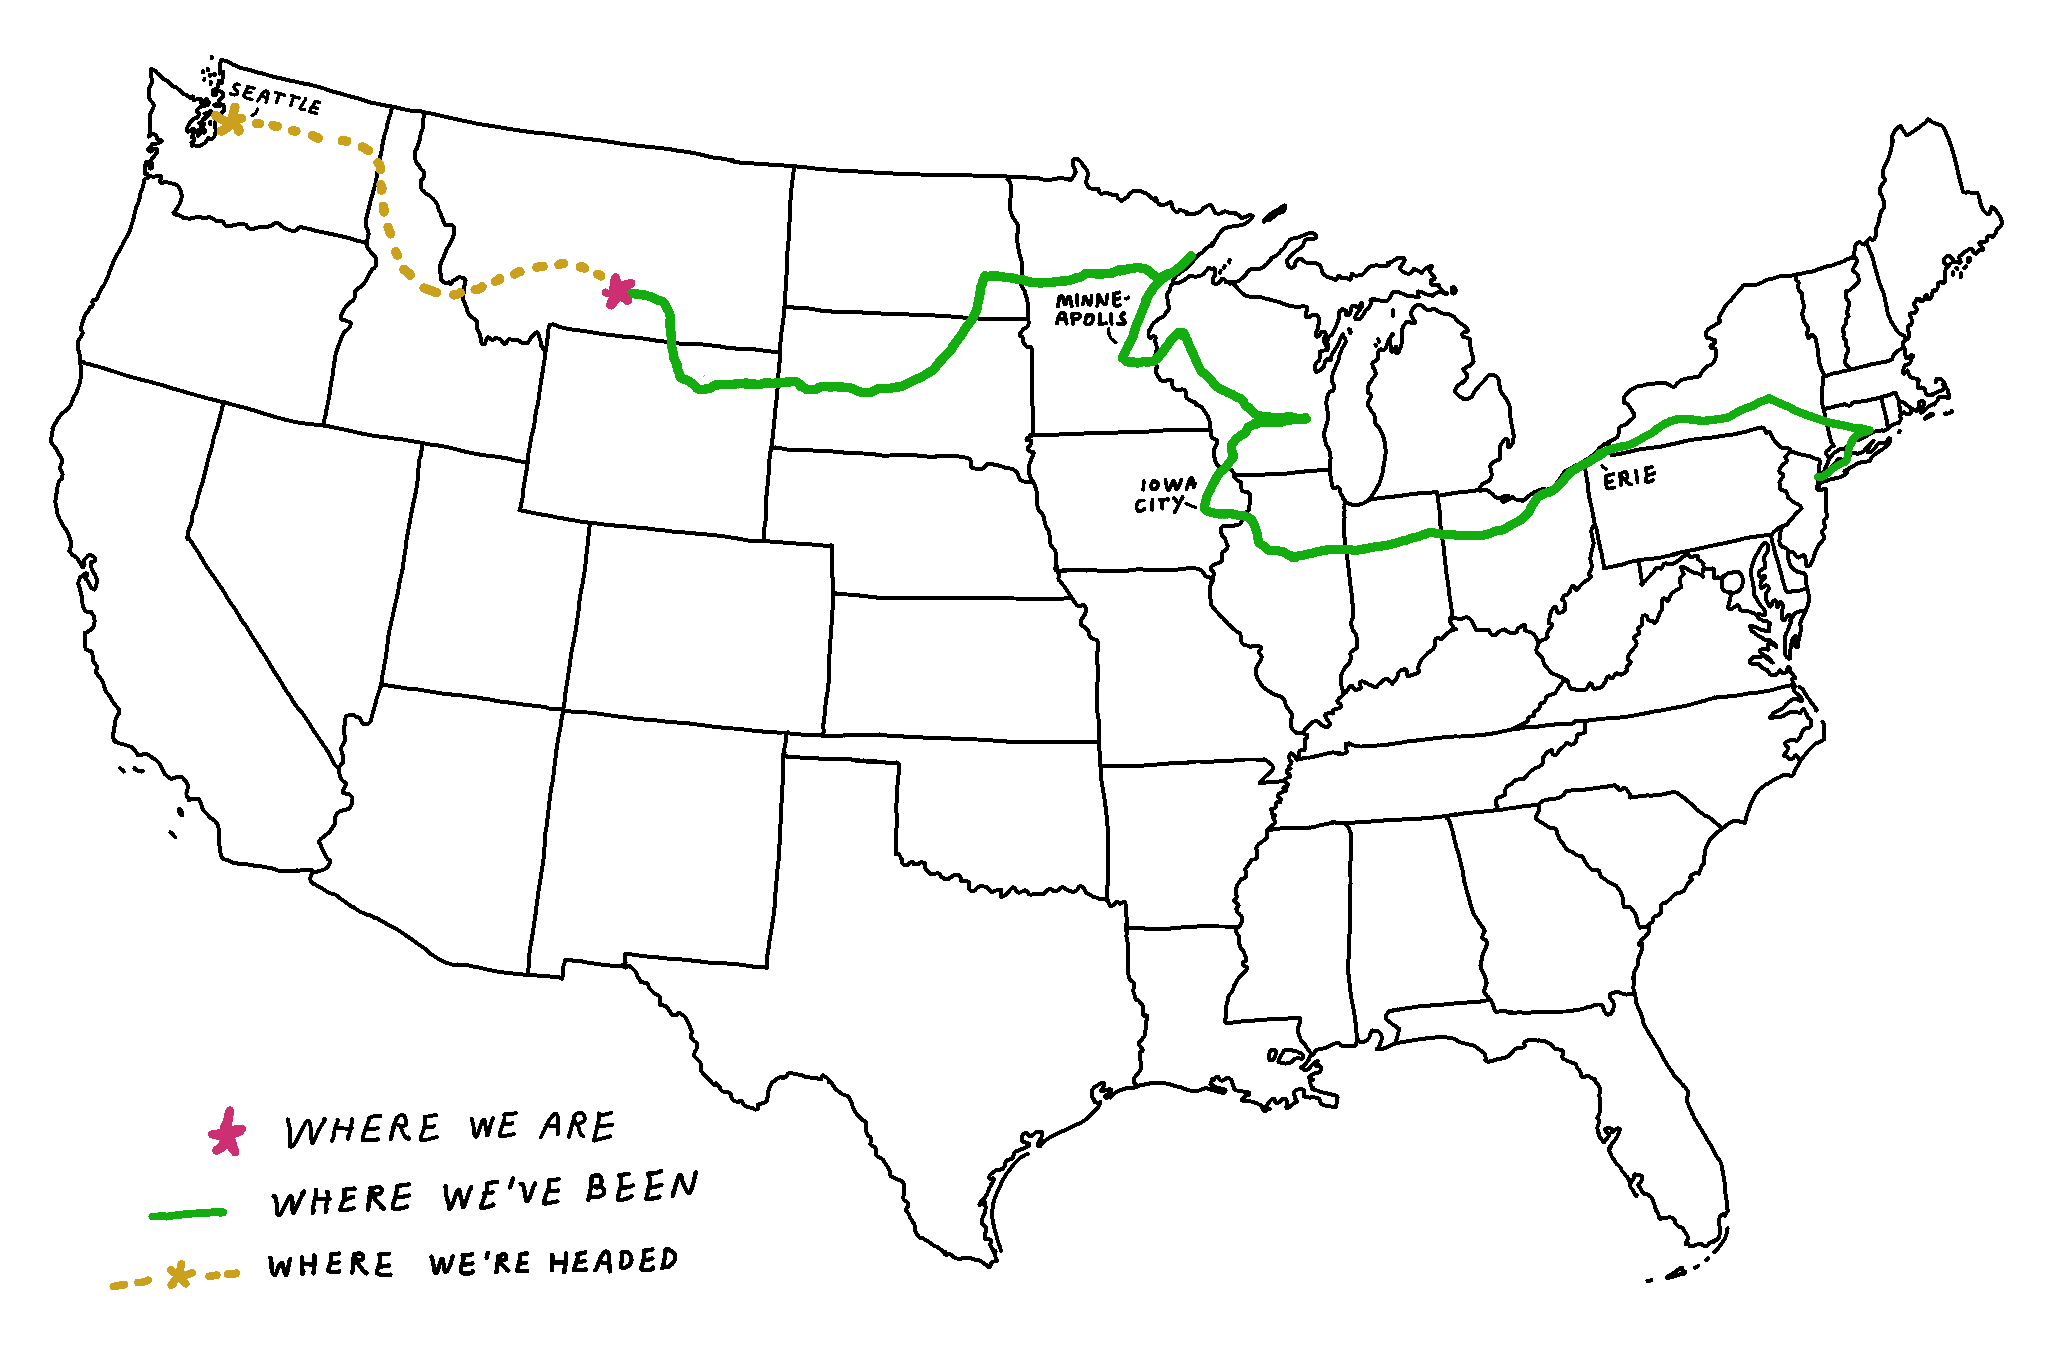
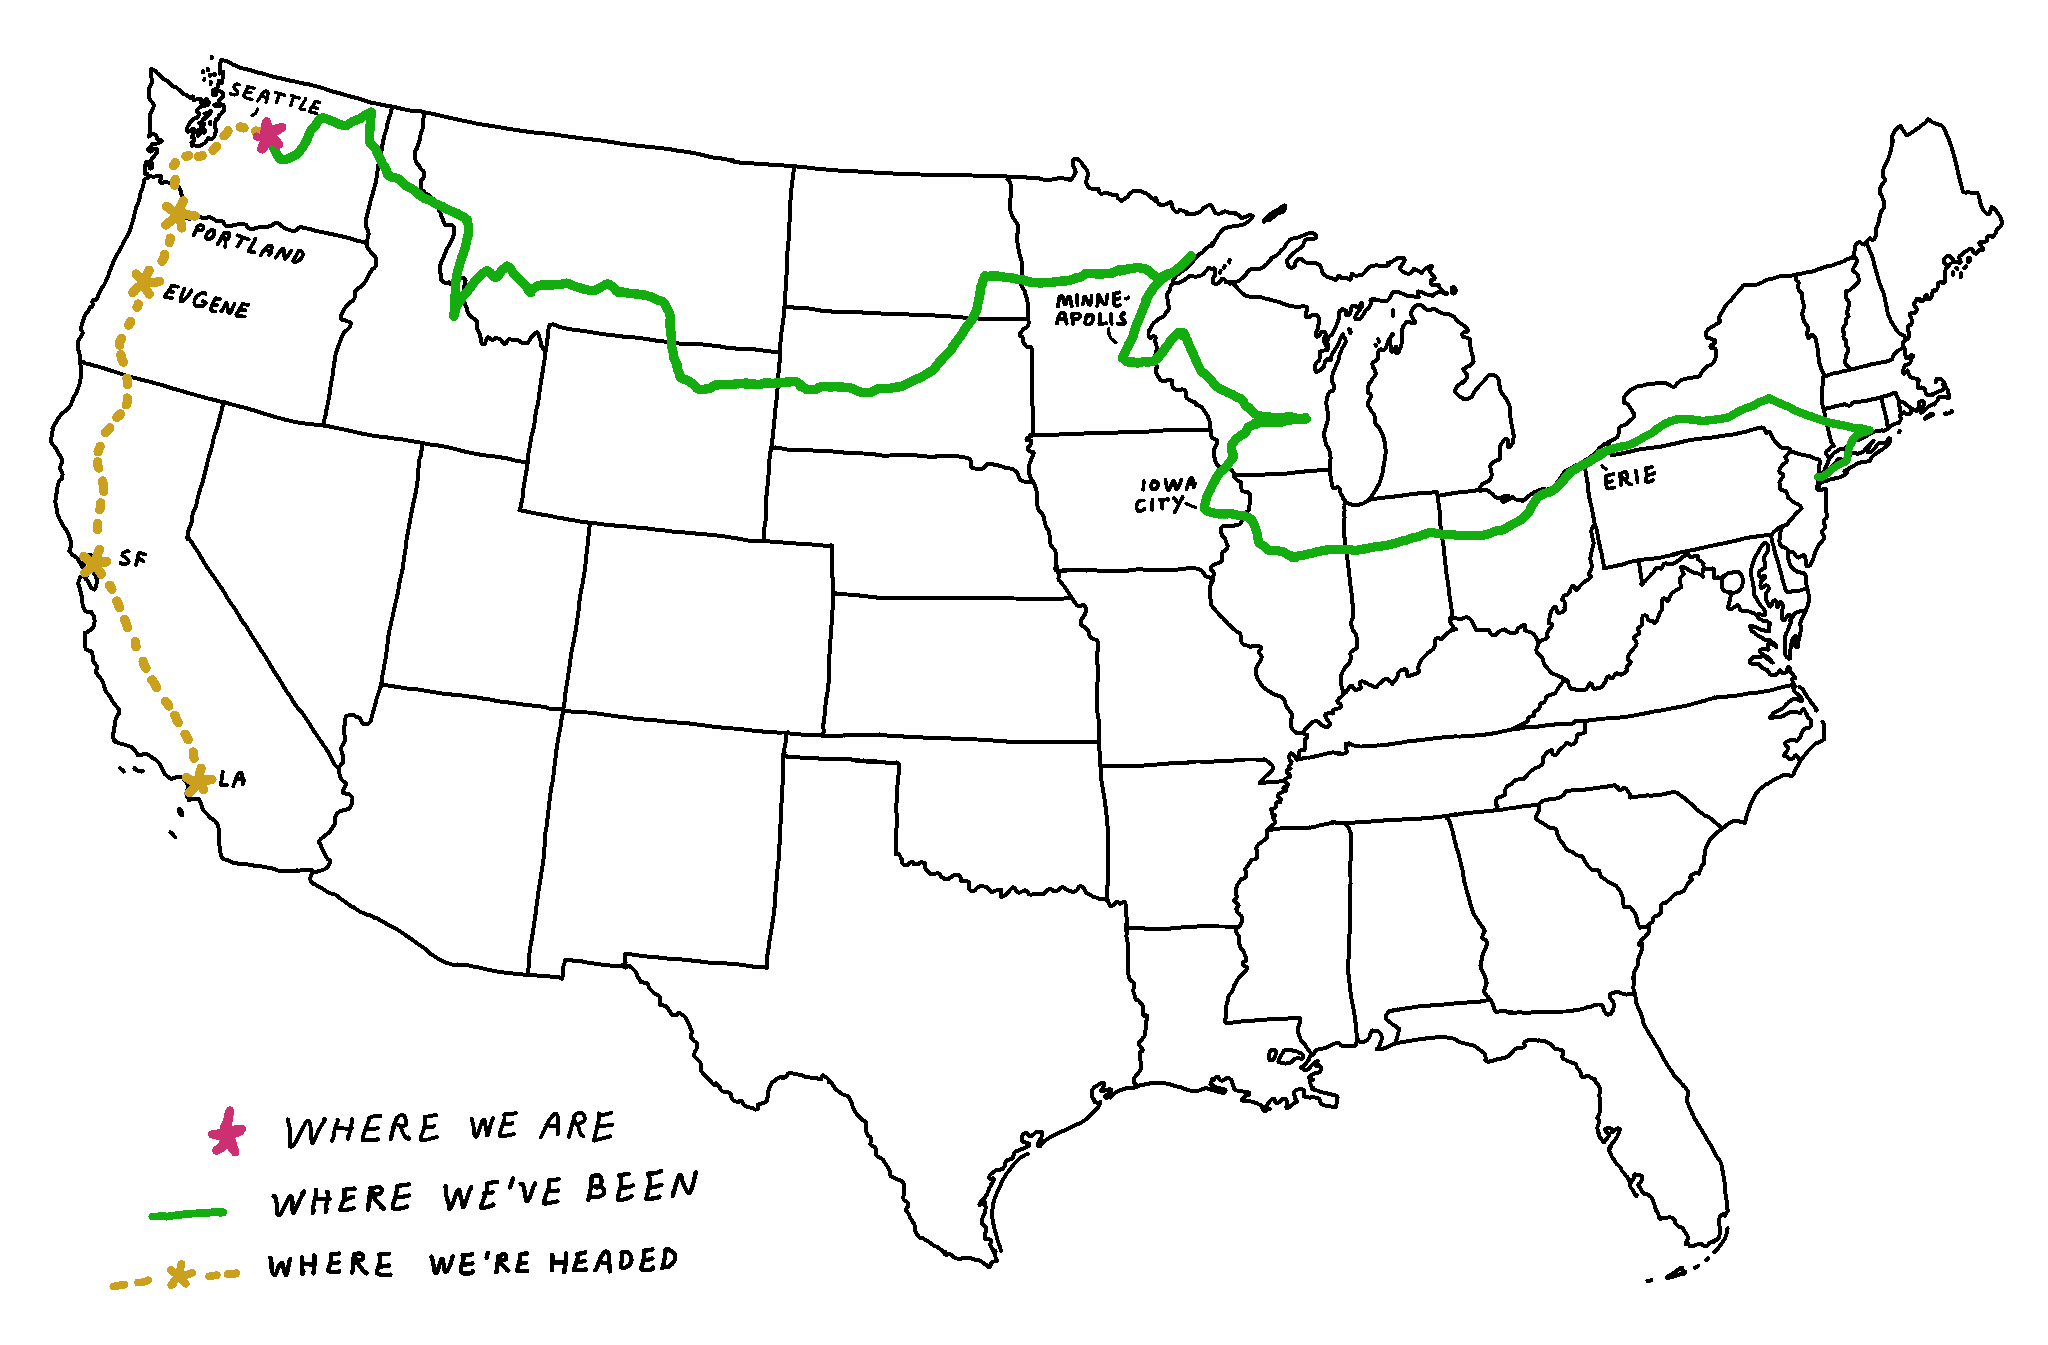
updated map / locations

diff --git a/map/index.html b/map/index.html
@@ -49,6 +49,8 @@
 
       <h2>Where Have We Been?</h2>
 
+      <p>Note: all locations are approximate.</p>
+
       <ul>
         <li>
           <b>2023 May 31</b> - Left Brooklyn, NY to travel to Rocky Point, Long Island (61 miles)
@@ -125,14 +127,39 @@
         <li>
           <b>2023 August 6</b> - Drove to Columbus, MT (141 miles)
         </li>
+        <li>
+          <b>2023 August 9</b> - Drove to Gallatin Gateway, MT (129 miles)
+        </li>
+        <li>
+          <b>2023 August 9</b> - Drove to Ennis, MT (79 miles)
+        </li>
+        <li>
+          <b>2023 August 15</b> - Drove to Wise River, MT (129 miles)
+        </li>
+        <li>
+          <b>2023 August 19</b> - Drove to Salmon, ID (128 miles)
+        </li>
+        <li>
+          <b>2023 August 20</b> - Drove to Tarkio, MT (187 miles)
+        </li>
+        <li>
+          <b>2023 August 23</b> - Drove to Metaline Falls, WA (223 miles)
+        </li>
+        <li>
+          <b>2023 August 28</b> - Drove to Kettle Falls, WA (76 miles)
+        </li>
+        <li>
+          <b>2023 August 29</b> - Drove to Coles Corner, WA (221 miles)
+        </li>
+
       </ul>
 
       <p>
-        Total miles traveled: <b>3657</b>
+        Total miles traveled: <b>4829</b>
         <br />
-        Trip duration so far: <b>70 days</b>
+        Trip duration so far: <b>96 days</b>
         <br />
-        Average miles traveled per day: <b>52.2</b>
+        Average miles traveled per day: <b>50.3</b>
       </p>
 
       <h2>Past Events</h2>
@@ -158,7 +185,7 @@
     </main>
 
     <footer>
-      Last updated: August 8, 2023
+      Last updated: September 4, 2023
     </footer>
 
   </div>
